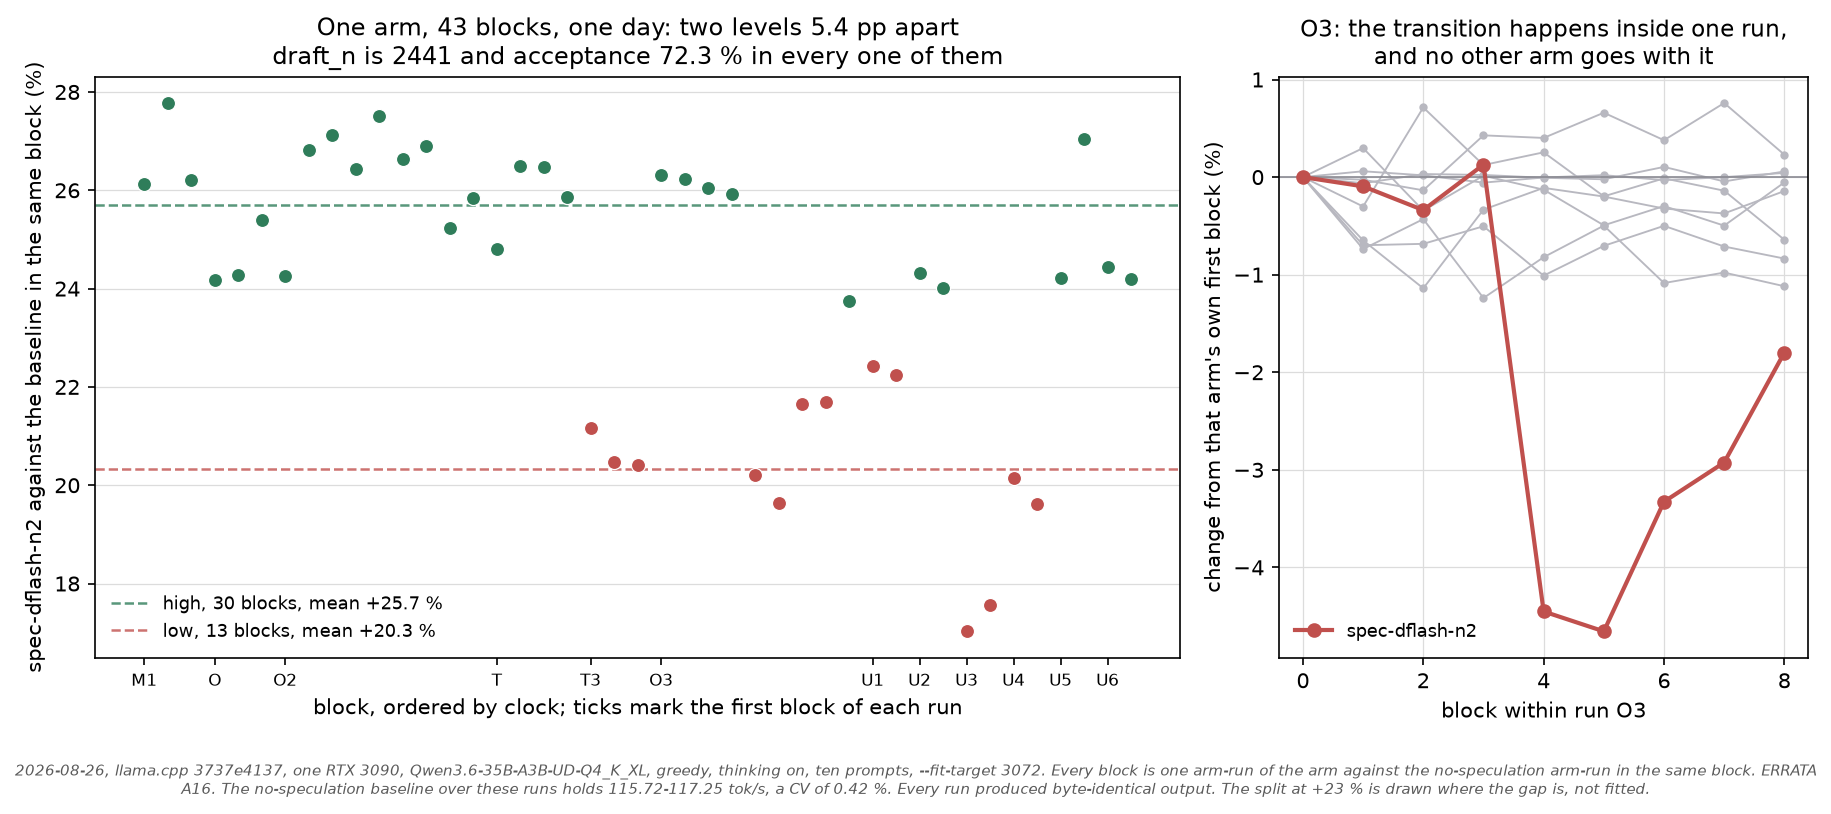
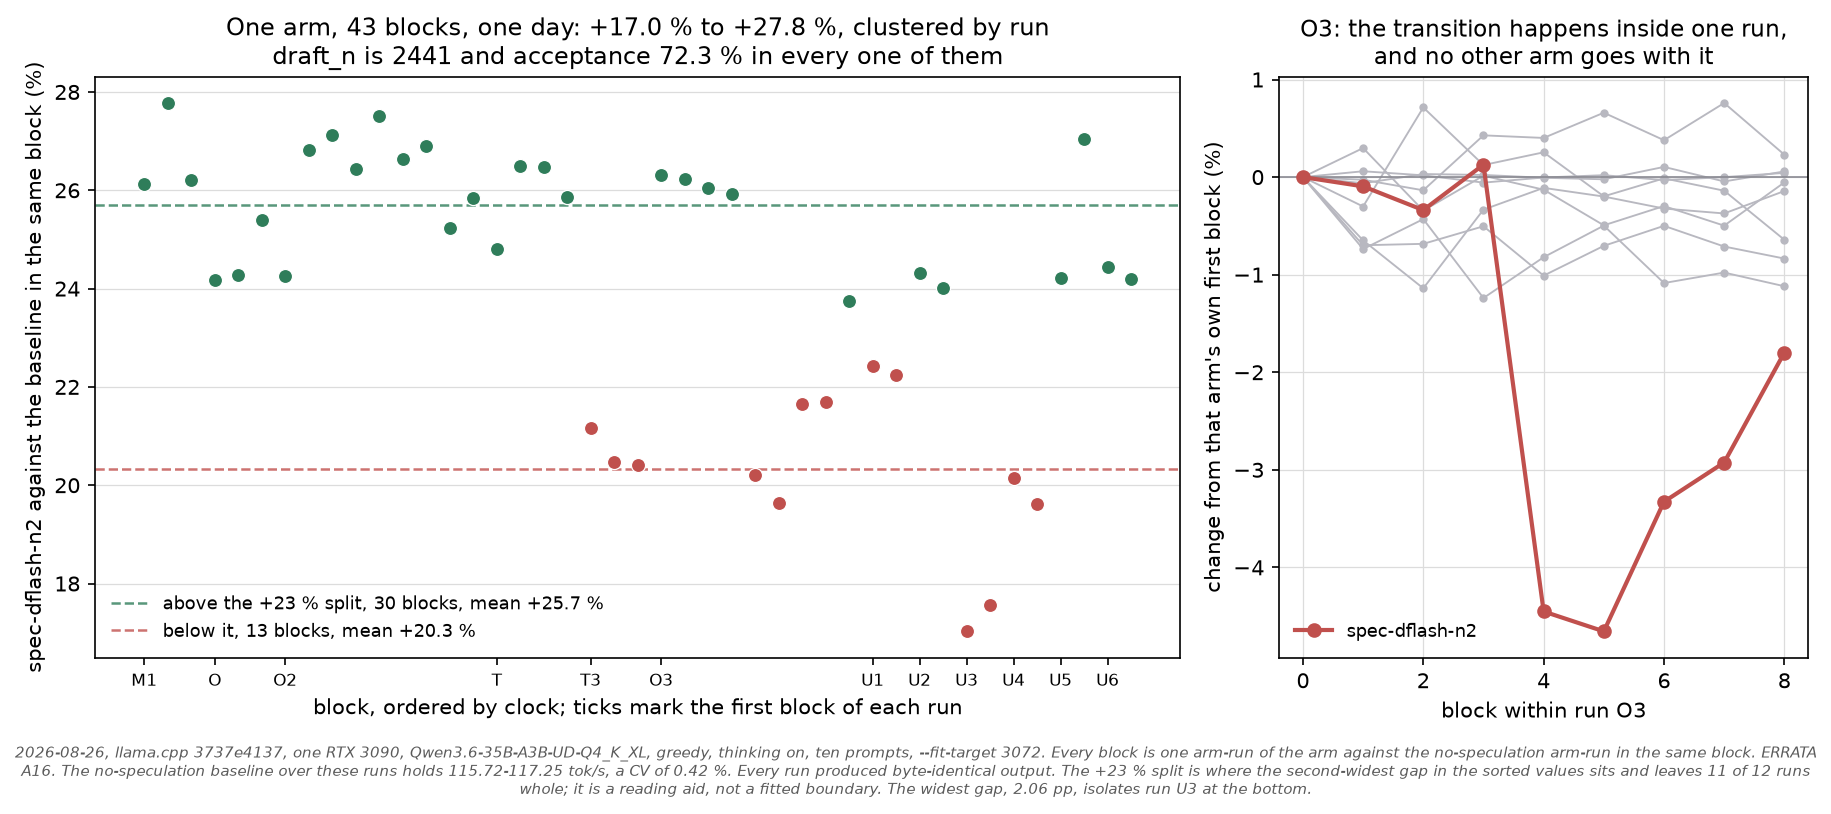
audit: withdraw "two discrete levels" — the data does not support the word
I wrote, and committed an hour ago, that the 43 block-level measurements of
spec-dflash-n2 are "two levels, not noise" at +25.7 % and +20.3 %. Looking at
the sorted values properly:

  the widest gap is 2.06 pp and it isolates run U3 at the BOTTOM
  the gap at the +23 % split I drew is 1.32 pp, the second widest
  runs O2 and O3 each span more than 3 pp internally

That is clustering with a heavy low tail, not a two-state system. The split at
+23 % is a reading aid that leaves eleven of the twelve runs whole; it is not a
fitted boundary and the figure no longer implies one.

What survives unchanged, because it was never the weak part:

  43 blocks span +17.0 % to +27.8 %, on byte-identical output
  draft_n is 2441 and acceptance 72.3 % in every one of the 43
  eleven of twelve runs sit wholly on one side of the split
  run O3 crosses at block 4, and only this arm moves with it: -4.45, -4.66,
    -3.33, -2.93 % against its own block 0 while eight other arms - including
    spec-dflash-n4, the same drafter at twice the draft length - never leave
    +/-1.24 %
  the no-speculation baseline over the same runs holds a CV of 0.42 %

The gap structure is asserted now, so the wording cannot drift back: the widest
gap, where it sits, the second widest, which runs cross the split, and the
largest within-run spread among the rest.

This is the third framing of A16 in one evening - "two runs differ", "the
variance is between invocations, 33x", "two discrete levels" - and each was
[…]

Changed region(s): [[0.0, 0.9214, 0.9962, 0.9828], [0.1245, 0.0, 0.5603, 0.0614], [0.0934, 0.7371, 0.3113, 0.7985]]

diff --git a/analysis/plot_v4_runs.py b/analysis/plot_v4_runs.py
@@ -580,8 +580,8 @@ def plot_two_levels() -> None:
     for x, y, t in zip(xs, ys, tags):
         ax.scatter(x, y, s=46, color=(C_HI if y >= SPLIT else C_LO),
                    edgecolor="white", linewidth=0.6, zorder=3)
-    for val, c, lab in ((st.mean(hi), C_HI, f"high, {len(hi)} blocks, mean {st.mean(hi):+.1f} %"),
-                        (st.mean(lo), C_LO, f"low, {len(lo)} blocks, mean {st.mean(lo):+.1f} %")):
+    for val, c, lab in ((st.mean(hi), C_HI, f"above the +23 % split, {len(hi)} blocks, mean {st.mean(hi):+.1f} %"),
+                        (st.mean(lo), C_LO, f"below it, {len(lo)} blocks, mean {st.mean(lo):+.1f} %")):
         ax.axhline(val, color=c, ls="--", lw=1.2, alpha=0.8, label=lab)
     seen, ticks, labels = set(), [], []
     for x, t in zip(xs, tags):
@@ -591,7 +591,8 @@ def plot_two_levels() -> None:
     ax.set_xticklabels(labels, fontsize=8.4)
     ax.set_xlabel("block, ordered by clock; ticks mark the first block of each run")
     ax.set_ylabel("spec-dflash-n2 against the baseline in the same block (%)")
-    ax.set_title(f"One arm, {len(ys)} blocks, one day: two levels {st.mean(hi)-st.mean(lo):.1f} pp apart\n"
+    ax.set_title(f"One arm, {len(ys)} blocks, one day: {min(ys):+.1f} % to {max(ys):+.1f} %, "
+                 f"clustered by run\n"
                  f"draft_n is 2441 and acceptance 72.3 % in every one of them",
                  fontsize=11.5)
     ax.legend(loc="lower left", fontsize=8.8, frameon=False)
@@ -629,7 +630,9 @@ def plot_two_levels() -> None:
                  "the no-speculation arm-run in the same block. ERRATA A16.",
             extra=" The no-speculation baseline over these runs holds 115.72-117.25 "
                   "tok/s, a CV of 0.42 %. Every run produced byte-identical output. "
-                  "The split at +23 % is drawn where the gap is, not fitted.")
+                  "The +23 % split is where the second-widest gap in the sorted values "
+                  "sits and leaves 11 of 12 runs whole; it is a reading aid, not a fitted "
+                  "boundary. The widest gap, 2.06 pp, isolates run U3 at the bottom.")
     if not CHECK:
         plt.savefig(OUT / "plot_two_levels.png", dpi=150, bbox_inches="tight")
     plt.close()

diff --git a/analysis/verify_claims.py b/analysis/verify_claims.py
@@ -1839,6 +1839,35 @@ chk("A16 high level: SD (pp)", round(st.stdev(_hi), 2), 1.18, 0.005)
 chk("A16 low level: n", len(_lo), 13)
 chk("A16 low level: mean (%)", round(st.mean(_lo), 2), 20.33, 0.005)
 chk("A16 low level: SD (pp)", round(st.stdev(_lo), 2), 1.63, 0.005)
+# the words the entry is allowed to use. "Two discrete levels" is not one of
+# them: the widest gap in the sorted values isolates one run at the bottom, not
+# the split, and two runs span more than 3 pp internally.
+_sorted = sorted(_lvl)
+_gaps = sorted(((_sorted[i + 1] - _sorted[i], _sorted[i]) for i in range(len(_sorted) - 1)),
+               reverse=True)
+chk("A16 the block-level range (%)",
+    [round(min(_lvl), 1), round(max(_lvl), 1)], [17.0, 27.8], 0.05)
+chk("A16 the widest gap in the sorted values (pp)", round(_gaps[0][0], 2), 2.06, 0.005)
+chk("A16 and it is not at the +23 % split", round(_gaps[0][1], 1) < 23, True)
+chk("A16 the gap at the split is the second widest (pp)",
+    round(_gaps[1][0], 2), 1.32, 0.005)
+_byrun = {}
+for _v, (_t, _k) in zip(_lvl, _lvl_meta):
+    _byrun.setdefault(_t, []).append(_v)
+chk("A16 runs that cross the split", sorted(
+    t for t, xs in _byrun.items() if any(x >= 23 for x in xs) and any(x < 23 for x in xs)),
+    ["O3"])
+chk("A16 runs that do not", len(_byrun) - 1, 11)
+chk("A16 the largest within-run spread among the rest (pp)",
+    round(max(max(xs) - min(xs) for t, xs in _byrun.items() if t != "O3"), 2), 3.27, 0.005)
+chk("ERRATA withdraws the two-level wording",
+    "does not support the word" in _norm(
+        pathlib.Path(__file__).resolve().parents[1].joinpath("ERRATA.md")
+        .read_text(encoding="utf-8")), True)
+chk("and no longer calls it two discrete levels",
+    "two levels, not noise" in _norm(
+        pathlib.Path(__file__).resolve().parents[1].joinpath("ERRATA.md")
+        .read_text(encoding="utf-8")), False)
 chk("A16 the gap between them (pp)",
     round(st.mean(_hi) - st.mean(_lo), 1), 5.4, 0.05)
 

diff --git a/ERRATA.md b/ERRATA.md
@@ -1135,43 +1135,50 @@ SD **0.55 pp** against **3.15 pp** between the six means, a range of **8.33 pp**
 in a quarter of an hour. That is not drift across the day, and no statistic
 computed inside one run can see it.
 
-**What it actually is: two levels, not noise.** Pool every block of every
+**What it actually is: the run, not the block.** Pool every block of every
 comparable run — 43 measurements of this one arm on 2026-08-26, same policy,
 same models, same prompts:
 
-![One arm, 43 blocks, two levels](analysis/plot_two_levels.png)
+![One arm, 43 blocks, one day](analysis/plot_two_levels.png)
 
-| | n | mean | SD |
-|---|---:|---:|---:|
-| high | 30 | **+25.70 %** | 1.18 |
-| low | 13 | **+20.33 %** | 1.63 |
+They span **+17.0 % to +27.8 %**, and **`draft_n` is 2441 with acceptance 72.3 %
+in every one of the 43** — the speculative work is identical to the token and
+only the time differs.
 
-The two groups are 5.4 pp apart and each is about as tight as any other arm's
-block-to-block scatter. **`draft_n` is 2441 and acceptance is 72.3 % in every
-one of the 43** — the speculative work is identical down to the token, and only
-the time differs.
+The values cluster by run rather than scattering within one. Splitting at +23 %,
+where the second-widest gap in the sorted values sits, leaves **eleven of the
+twelve runs wholly on one side**; the group above averages +25.7 % over 30
+blocks and the group below +20.3 % over 13. Five runs hold their two blocks to
+within 0.6 pp of each other while sitting 5 pp apart from one another.
 
-Eleven of the twelve runs sit wholly in one level. Run O3 is the exception and
-it is the informative one: blocks 0–3 at ~+26 %, blocks 4–7 at ~+20 %, block 8
-recovering to +23.8 %. **In those blocks only this arm moves.** Against its own
-block 0, `spec-dflash-n2` reads −4.45, −4.66, −3.33, −2.93 % while the
-no-speculation baseline, `spec-draft-n1`, `spec-draft-n8`, `spec-mtp-n2`,
-`ngram-cache`, `ngram-mod-n24`, `ngram-map-k4v-m8` and — decisively —
-**`spec-dflash-n4`, the same DFlash drafter at twice the draft length** — never
-leave ±1.24 %, and `spec-dflash-n4` never leaves ±1.01 %. The next largest
-excursion in the whole run is a quarter the size of this one.
+> **An earlier version of this entry called that "two discrete levels" and it
+> does not support the word.** The widest gap in the sorted values is 2.06 pp
+> and it isolates run U3 at the bottom, not the +23 % split, where the gap is
+> 1.32 pp. Runs O2 and O3 each span more than 3 pp internally. What the data
+> shows is clustering by run with a heavy low tail — not a clean two-state
+> system, and the figure is titled accordingly.
 
-So the level is not a property of the machine, of the GPU, or of DFlash. It is a
-state that a run lands in, that persists across the server restarts between
-arm-runs — every arm-run is a fresh `llama-server` process — and that can change
-inside one run.
+Run O3 is the one that crosses, and it is the informative one: blocks 0–3 at
+~+26 %, blocks 4–7 at ~+20 %, block 8 recovering to +23.8 %. **In those blocks
+only this arm moves.** Against its own block 0, `spec-dflash-n2` reads −4.45,
+−4.66, −3.33, −2.93 % while the no-speculation baseline, `spec-draft-n1`,
+`spec-draft-n8`, `spec-mtp-n2`, `ngram-cache`, `ngram-mod-n24`,
+`ngram-map-k4v-m8` and — decisively — **`spec-dflash-n4`, the same DFlash
+drafter at twice the draft length** — never leave ±1.24 %, and `spec-dflash-n4`
+never leaves ±1.01 %. The excursion is nearly four times the next largest in the
+run.
+
+So whatever moves is not the machine, not the GPU, and not DFlash as such. It
+attaches to one configuration, survives the server restart between arm-runs —
+every arm-run is a fresh `llama-server` process — and can change inside a single
+run.
 
 **This corrects the framing above.** "The variance is between invocations" is
 what run U shows, because none of U's six straddled a transition; run O3 shows
 one happening inside a single invocation. The 33× ratio is arithmetic on U's
 numbers, not a law.
 
-**The cause is not isolated.** Nothing recorded distinguishes the two levels:
+**The cause is not isolated.** Nothing recorded distinguishes a high run from a low one:
 the same argv, the same fit decisions, the same 82 MiB of GPU memory free at
 start, the same 11–16 s to become healthy, the same clocks and temperatures, the
 same draft counts and acceptance, and byte-identical output. What sits between T and T3 is machine history — two rebuilds and a killed

diff --git a/README.md b/README.md
@@ -20,7 +20,7 @@
 > and token ids, and continuous GPU telemetry. Its findings are the ones to
 > cite about current llama.cpp, with two limits stated up front rather than
 > buried: the same configuration measured **twelve times in one day spans
-> 9.4 pp**, in two discrete levels 5.4 pp apart, on byte-identical output
+> 9.4 pp**, clustered by run rather than scattered, on byte-identical output
 > ([A16](ERRATA.md#a16-two-runs-identical-in-every-recorded-respect-and-byte-identical-in-output-differ-by-34--on-one-arm)),
 > so quote the range and not the interval; and **every thinking-off comparison
 > here is confounded by output length**
@@ -48,8 +48,8 @@
 > a time. The width of that band is not rounding. The same DFlash configuration
 > was measured **twelve times** on 2026-08-26 and spans **+17.3 % to +26.7 %**,
 > on byte-identical output and identical draft counts, while the no-speculation
-> reference beside it holds to a CV of 0.42 %. Pooled by block it is two levels,
-> +25.7 % and +20.3 %, and only this one arm moves between them
+> reference beside it holds to a CV of 0.42 %. The values cluster by run, and
+> only this one arm moves between the clusters
 > ([ERRATA A16](ERRATA.md#a16-two-runs-identical-in-every-recorded-respect-and-byte-identical-in-output-differ-by-34--on-one-arm)).
 > "Speculative decoding loses on this hardware" was a statement about a regime
 > this repository had not separated.
@@ -153,13 +153,14 @@ arm under test is not. Every one of the twelve produced byte-identical output,
 and `draft_n` is 2441 with acceptance 72.3 % in all 43 of their blocks: the
 speculative work is the same to the token and only the time differs.
 
-Pooling those 43 blocks, it is **not scatter but two levels** — a high one at
-**+25.7 %** (30 blocks, SD 1.18) and a low one at **+20.3 %** (13 blocks, SD
-1.63). Eleven runs sit wholly in one level; run O3 crosses between them at block
-4, and **in those blocks only this arm moves** — including `spec-dflash-n4`,
-the same drafter at twice the draft length, which never leaves ±1.01 % of its
-own first block. The level survives the server restart between arm-runs, so a
-single measurement lands wherever the state happens to be.
+Pooling those 43 blocks gives **+17.0 % to +27.8 %**, and the values cluster by
+run rather than scattering inside one: split at +23 % and **eleven of the twelve
+runs fall wholly on one side**, averaging +25.7 % above and +20.3 % below. Run
+O3 is the one that crosses, at block 4 — and **in those blocks only this arm
+moves**, including `spec-dflash-n4`, the same drafter at twice the draft length,
+which never leaves ±1.01 % of its own first block. Whatever it is survives the
+server restart between arm-runs, so a single measurement lands wherever it
+happens to be.
 
 The paired-block interval above is 1.6 pp wide and it is measuring the wrong
 variance component. Read the configuration as **+17 % to +27 %**, and the
